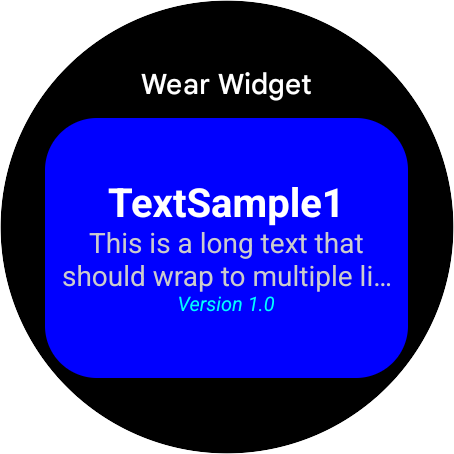
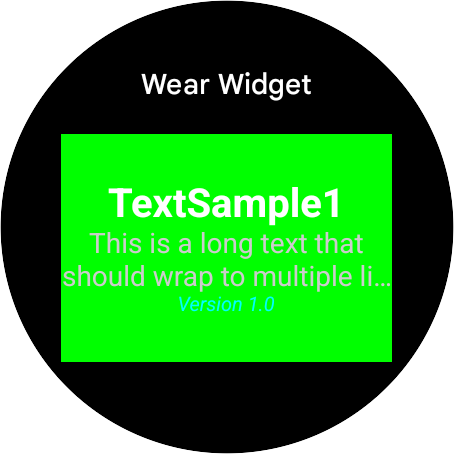
Update TextSample1 background and screenshot, and improve docs

diff --git a/WearWidgetKotlin/app/src/main/java/com/google/example/wear_widget/WidgetCatalog.kt b/WearWidgetKotlin/app/src/main/java/com/google/example/wear_widget/WidgetCatalog.kt
@@ -94,7 +94,7 @@ fun BoxSample3() {
 @Composable
 fun TextSample1() {
     RemoteBox(
-        modifier = RemoteModifier.fillMaxSize(),
+        modifier = RemoteModifier.fillMaxSize().background(Color.Green),
         horizontalAlignment = RemoteAlignment.CenterHorizontally,
         verticalArrangement = RemoteArrangement.Center,
     ) {

diff --git a/WearWidgetKotlin/screenshots/README.md b/WearWidgetKotlin/screenshots/README.md
@@ -67,8 +67,11 @@ To generate a screenshot for a sample:
 5.  **Verify:**
     - Ensure the screenshot filename matches the function name exactly (e.g.,
       `BoxSample1` -> `screenshots/BoxSample1.png`).
-    - **Visual Check:** Verify the screenshot actually displays the widget
-      content and not a loading state, black screen, or watch face.
+    - **Visual Check:** **CRITICAL:** Open and visually inspect the generated
+      image file. Verify it displays the *correct* widget content (check for
+      expected text, colors, and layout). Ensure it is not showing a loading
+      spinner, black screen, or the default watch face. **Do not assume the
+      capture was successful without looking at the image.**
     - **Retry:** If the capture is invalid (e.g., device was asleep), wake the
       device and retry the deploy/show/capture cycle 1-2 times.
 
